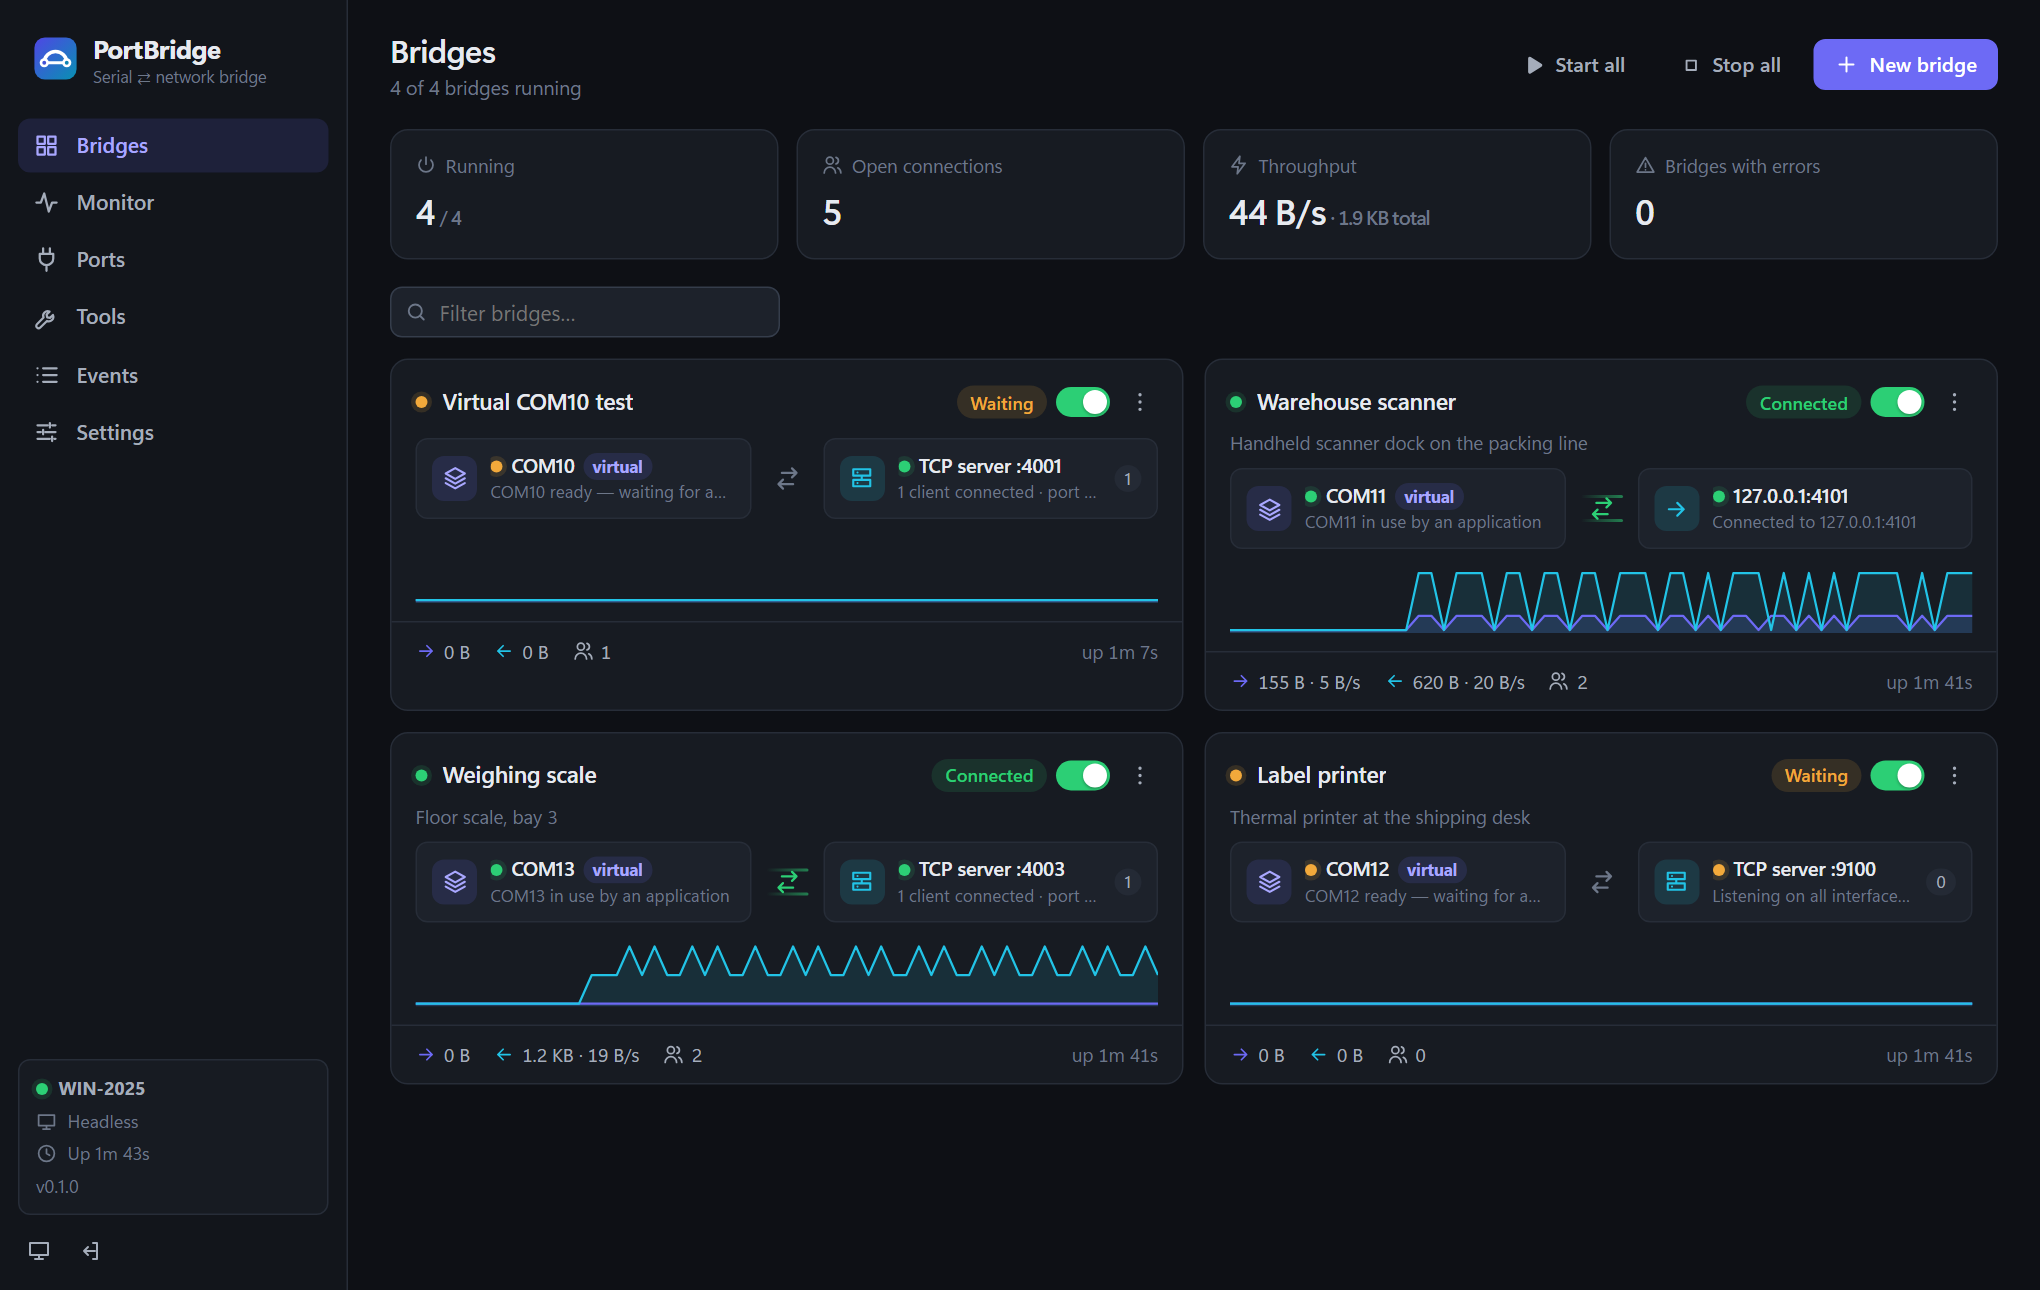
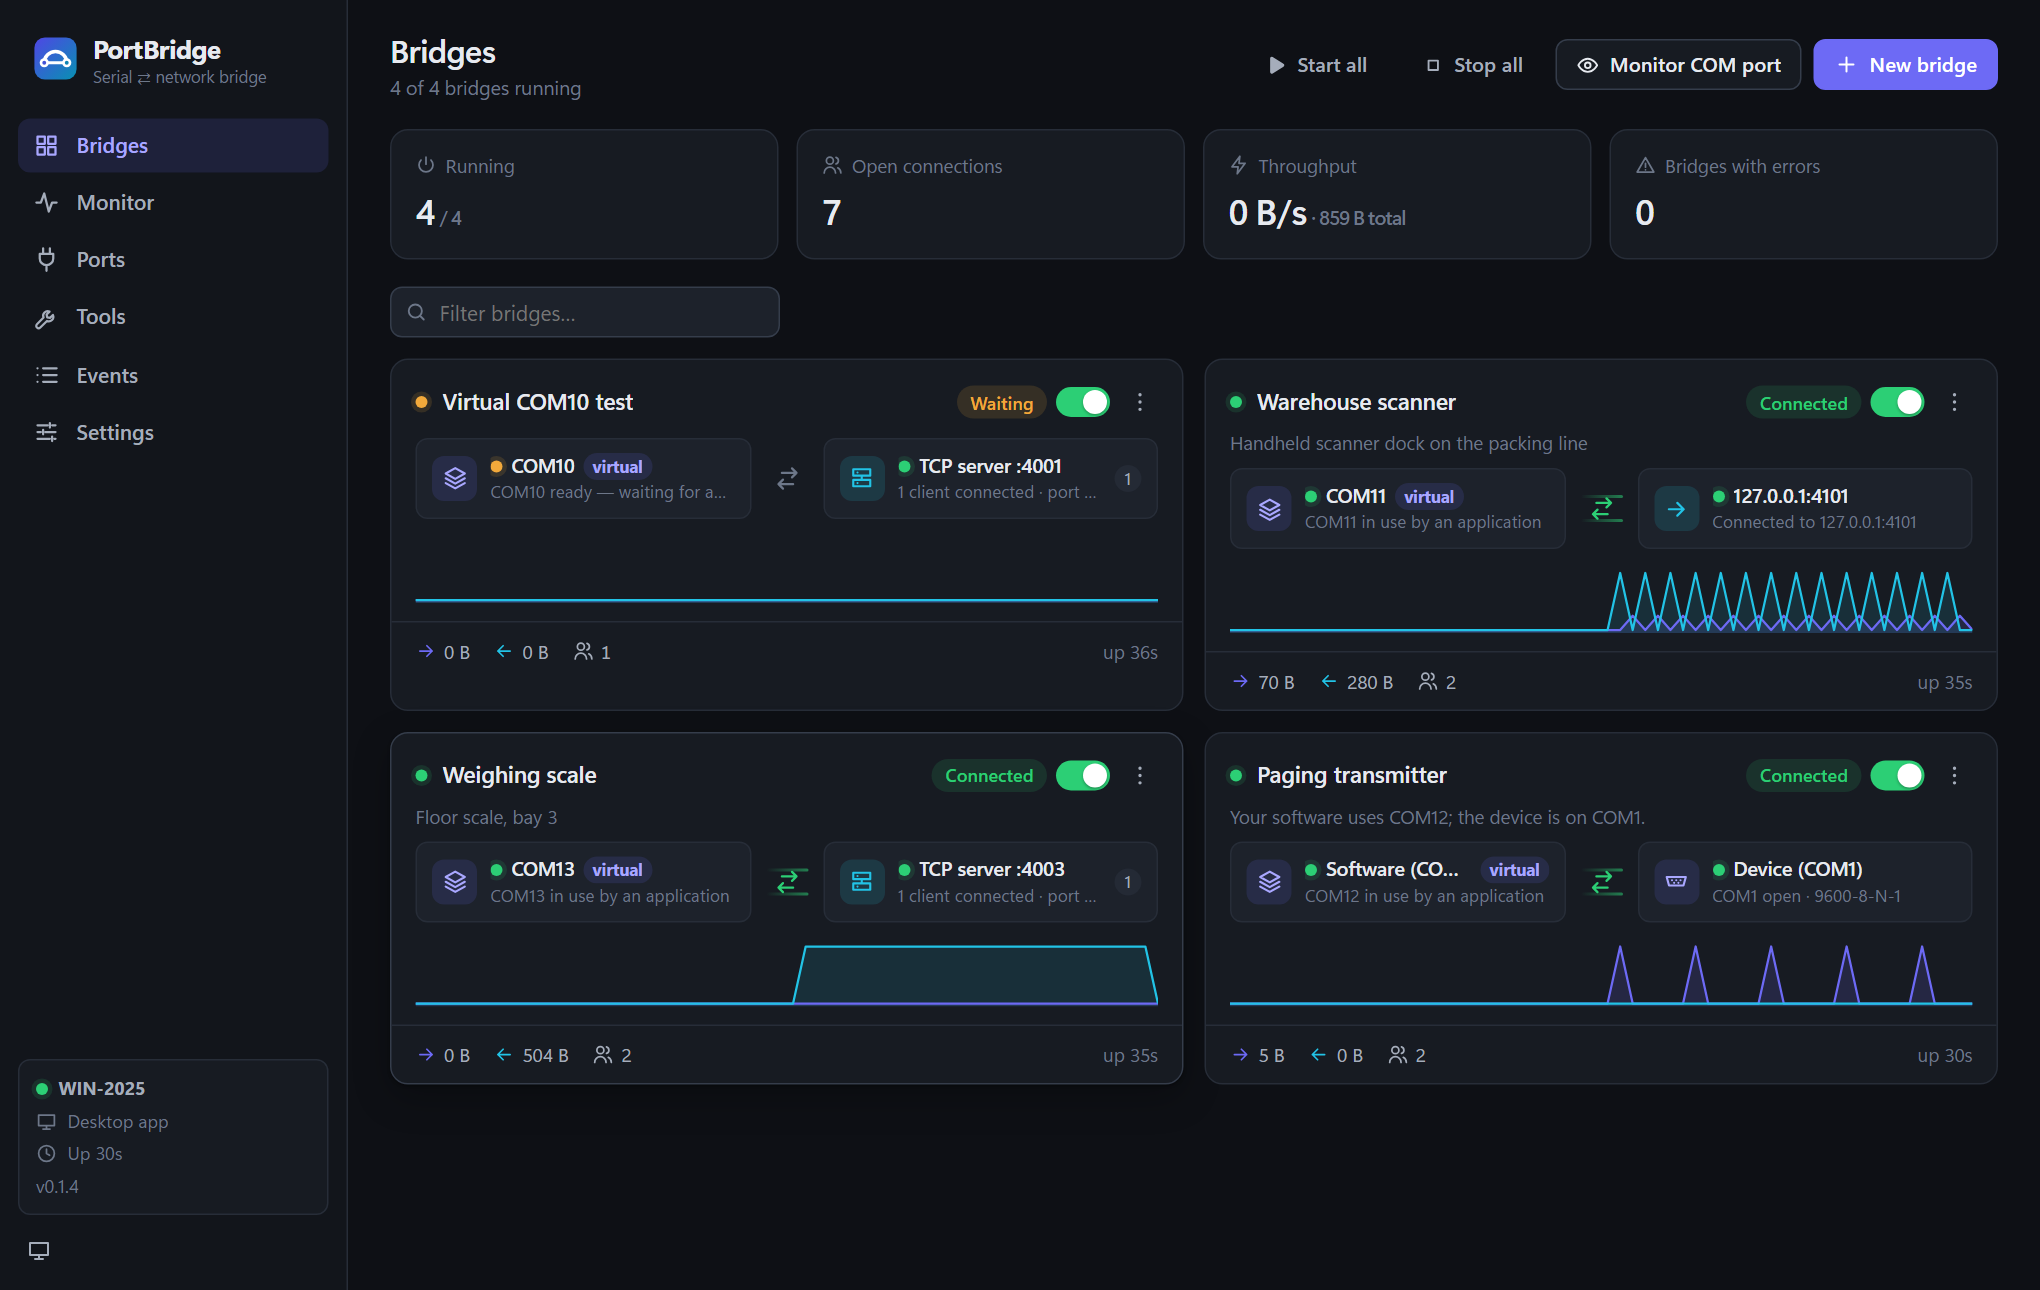
README: show and describe Monitor COM port
New "Monitor a COM port" section with a screenshot of the form: why PortBridge
has to sit between a program and its device, the four steps, and that the
result is an ordinary bridge whose virtual port outlives it. The feature table
gets a row for it, the TAP section links to it, and the dashboard screenshots
(light and dark) are retaken with the new button and a bridge made with it
(demo bridges as before).

diff --git a/README.md b/README.md
@@ -5,7 +5,7 @@ connections, managed from a clean dashboard that works in its own desktop window
 
 ![icon](src/PortBridge/wwwroot/img/logo.svg)
 
-![The PortBridge dashboard: four bridges with live status and traffic](docs/screenshots/dashboard.png)
+![The PortBridge dashboard: four bridges with live status and traffic, and the Monitor COM port and New bridge buttons](docs/screenshots/dashboard.png)
 
 ## What it does
 
@@ -45,6 +45,7 @@ or TCP ⇄ TCP use the multi-endpoint editor, one click away from the same form.
 | One port → many apps, TCP → TCP mapping | chain several instances via loopback | **one bridge with several targets** |
 | Remote management | — | **web dashboard** from any browser (opt-in, password, optional HTTPS) |
 | Live traffic monitor (hex/text, search, export) | — | ✓ control characters by name: `<STX>`, `<CR>`, `<ACK>`… |
+| Watch a program talking to a device on a COM port | — | ✓ **Monitor COM port**: pick the port, one click ([more](#monitor-a-com-port)) |
 | Protocol decoding | — | ✓ **TAP paging**: the Monitor and the traffic log say what each message means ([more](#tap-paging)) |
 | Send test data / saved macros | — | ✓ |
 | Traffic logging to file | — | ✓ daily files per bridge, hex or text, old files deleted after N days |
@@ -65,6 +66,30 @@ their ASCII names (`<STX>`, `<CR>`, `<ACK>`…) in the Monitor and the traffic l
   <img src="docs/screenshots/monitor.png" width="49%" alt="The Monitor decoding TAP paging: logon, pages with their checksums, ACK and NAK replies">
   <img src="docs/screenshots/dashboard-dark.png" width="49%" alt="The dashboard in the dark theme">
 </p>
+
+## Monitor a COM port
+
+To see everything a program and a device say to each other over a COM port — paging software and a paging
+transmitter, a cash register and a scale, a PLC tool and its controller — click **Monitor COM port** on the Bridges page.
+
+A COM port can be open in only one program, so it cannot be watched from the side: PortBridge has to sit in between.
+Your software opens a *virtual* COM port instead of the real one, and PortBridge passes every byte to and from the real
+port while the Monitor shows it.
+
+![The Monitor a COM port form: the COM port to monitor with its settings, and the virtual COM port for the software](docs/screenshots/monitor-com-port.png)
+
+1. **COM port to monitor** — pick the real port the device is connected to and set its speed and format
+   (9600 8N1 is filled in; it must match the device). Ports already used by another bridge are flagged.
+2. **Virtual COM port for your software** — PortBridge suggests one. If your software already uses a PortBridge
+   virtual port (marked *exists*), pick that one and nothing changes for the software; otherwise point the software at
+   the new one.
+3. **What to show** — tick **TAP paging** to have each [TAP](#tap-paging) message explained, and keep or untick the
+   traffic log.
+4. **Create & open Monitor** — PortBridge creates and starts the bridge (*Software (COM12)* → *Device (COM1)* in the
+   screenshot above, shown as "Paging transmitter" on the dashboard) and opens the Monitor.
+
+The result is an ordinary bridge: rename, edit or delete it like any other. The virtual port stays when the bridge is
+deleted, so a bridge made again later can use it and the software keeps working.
 
 ## Installing
 
@@ -172,11 +197,8 @@ Pages spread over several blocks, replies that arrive byte by byte and the numer
 501, others by class) are handled too. In the traffic log the explanation follows the data:
 `<< [Transmitter] (7) 0D 06 0D 1B 5B 70 0D  |<CR><ACK><CR><ESC>[p<CR>|  TAP: Logon accepted · Go ahead: ready for pages`.
 
-To watch the traffic between your software and a device on a COM port, click **Monitor COM port** on the Bridges
-page and pick the real port (and its speed and format). PortBridge creates and starts a bridge between that port and
-a virtual COM port, ticks TAP decoding and a traffic log if you want them, and opens the Monitor; then point your
-software at the virtual port. (A COM port can be open in only one program, so it cannot be watched from the side.
-If your software already uses a PortBridge virtual port, pick that one and nothing changes for the software.)
+To watch the TAP traffic between paging software and a transmitter on a COM port, use
+[Monitor COM port](#monitor-a-com-port) and tick **TAP paging**.
 
 ### Virtual COM ports (com0com)
 
